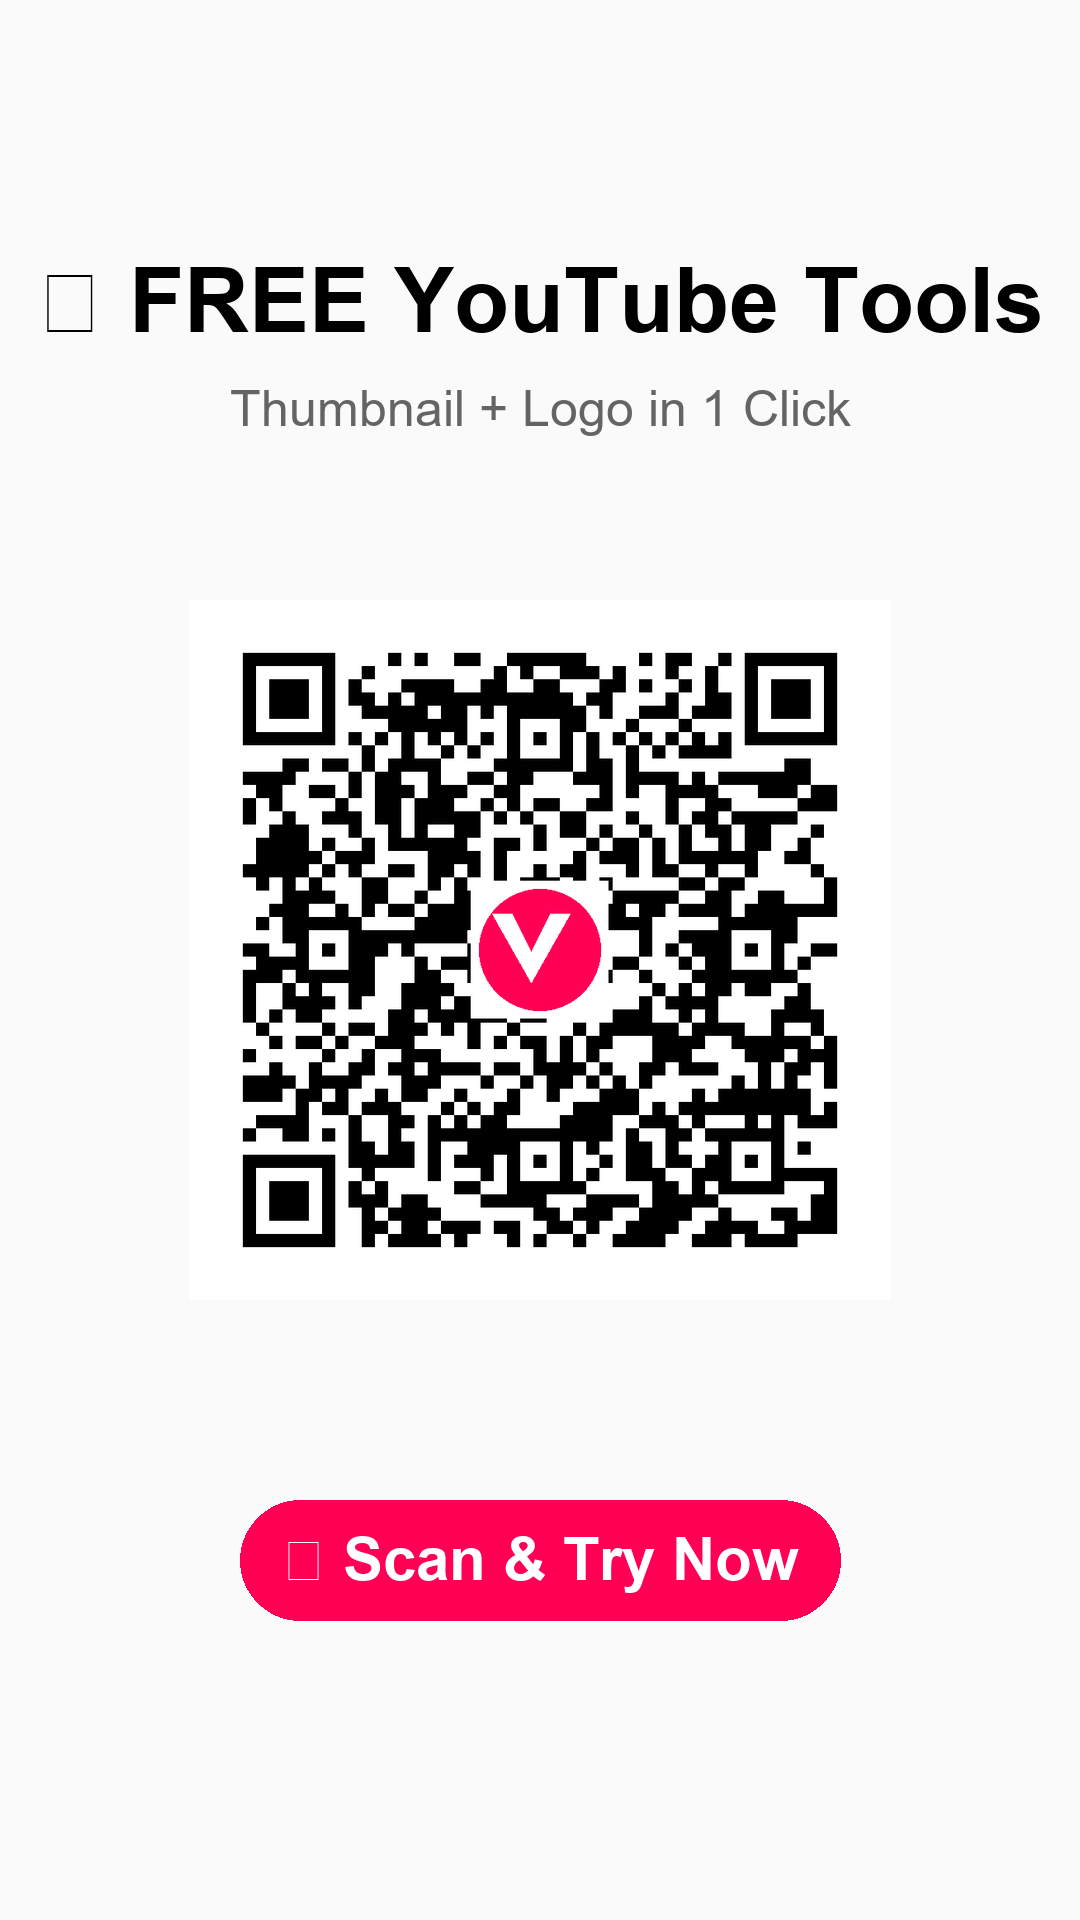
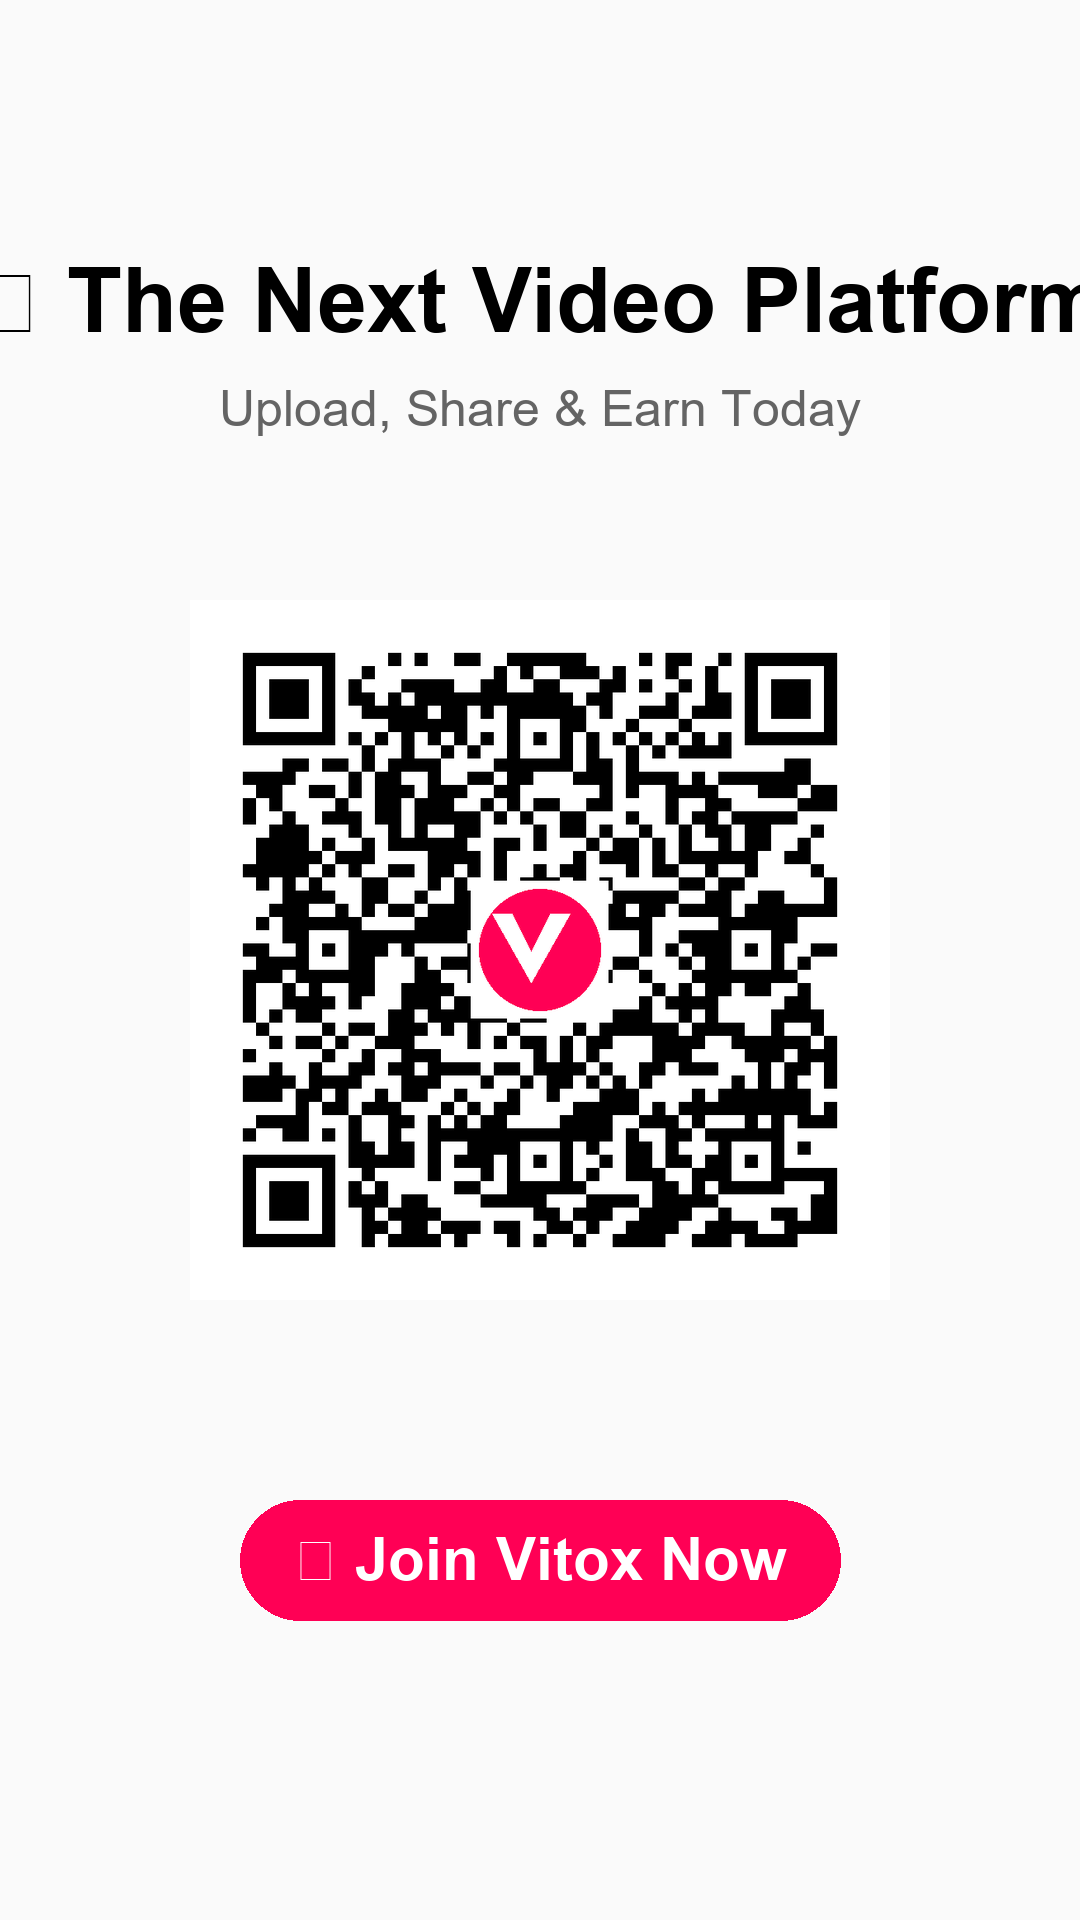
Update: Wed 03/25/2026 14:40:51.67

Changed region(s): [[0.0611, 0.125, 1.0, 0.2188], [0.3056, 0.7812, 0.7333, 0.8438]]

diff --git a/auto_poster_system.py b/auto_poster_system.py
@@ -124,9 +124,9 @@ def create_poster(variant, heading, subtext, style, cta):
     print(f"✅ Saved: {path}")
 
 variants = [
-    ("A", "🚀 FREE YouTube Tools", "Thumbnail + Logo in 1 Click", "clean", "📱 Scan & Try Now"),
-    ("B", "😳 You're Missing This", "Create Thumbnails FREE", "modern", "👇 Scan Before Others Do"),
-    ("C", "🔥 Try Before Others", "No Login Needed", "bold", "⚡ INSTANT ACCESS")
+    ("A", "🚀 The Next Video Platform", "Upload, Share & Earn Today", "clean", "📱 Join Vitox Now"),
+    ("B", "😳 Better Than YouTube?", "Monetize From Day 1", "modern", "👇 Claim Your Channel"),
+    ("C", "🔥 Upload & Get Famous", "No Algorithms. Just Views.", "bold", "⚡ START CREATING")
 ]
 
 for v in variants:
